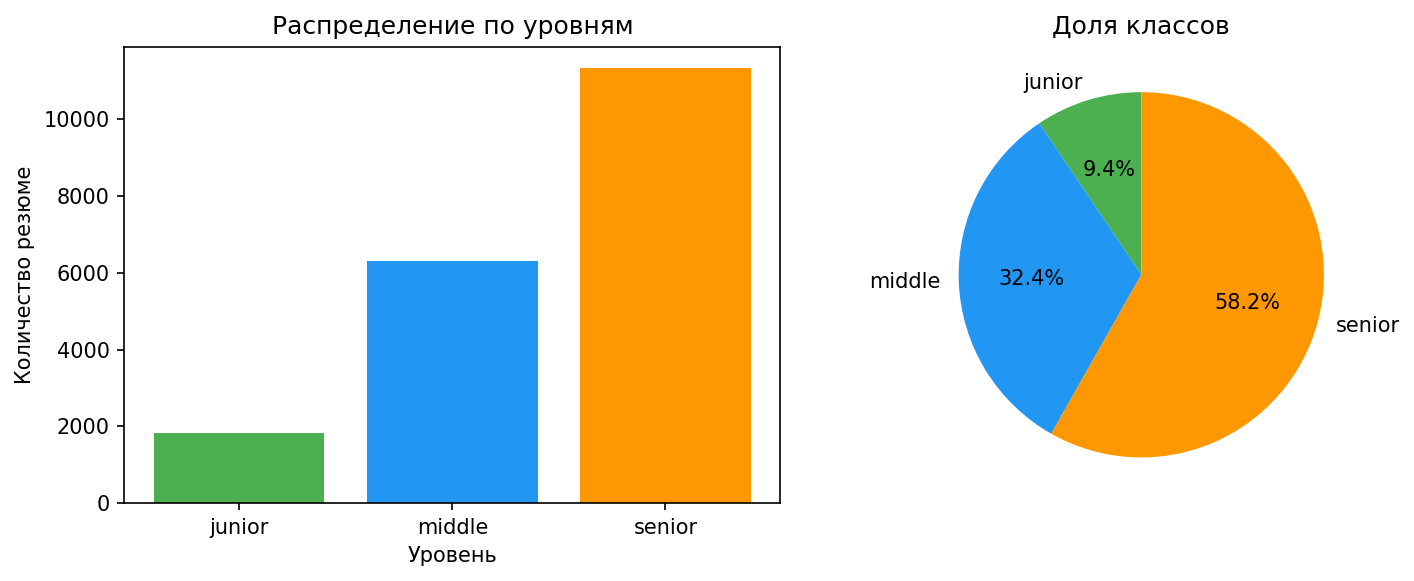
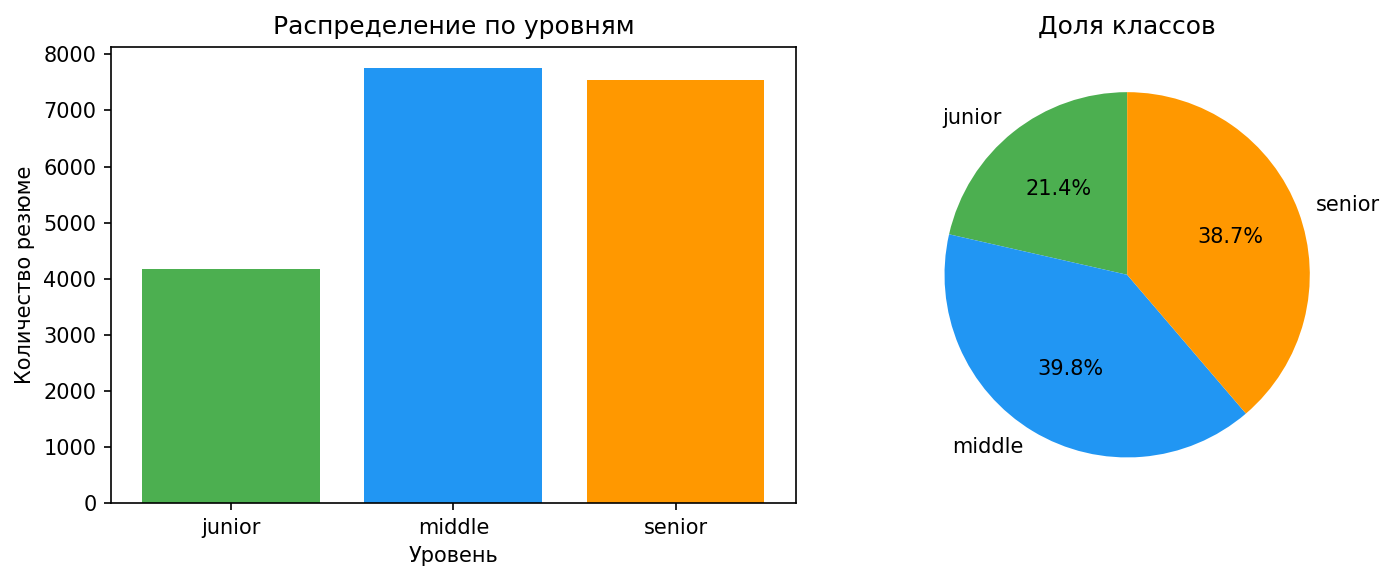
improved labeling

diff --git a/app/features/labeling.py b/app/features/labeling.py
@@ -5,8 +5,8 @@ import pandas as pd
 
 from ..data.parsers import find_column, parse_age, parse_experience_years, parse_salary
 
-JUNIOR_MAX_YEARS = 2
-SENIOR_MIN_YEARS = 6
+JUNIOR_MAX_YEARS = 7
+SENIOR_MIN_YEARS = 10
 
 
 def assign_level_from_title(job_title) -> str | None:
@@ -14,10 +14,19 @@ def assign_level_from_title(job_title) -> str | None:
     if pd.isna(job_title):
         return None
     title_lower = str(job_title).lower()
-    if any(x in title_lower for x in ["junior", "джуниор", "стажёр", "стажер", "intern"]):
+    
+    # Junior: явные маркеры
+    if any(x in title_lower for x in ["junior", "джуниор", "джун", "стажёр", "стажер", "intern", "trainee", "младший"]):
         return "junior"
-    if any(x in title_lower for x in ["senior", "старший", "lead", "руководитель", "начальник"]):
+    
+    # Senior: лидерство и старшинство
+    if any(x in title_lower for x in ["senior", "старший", "lead", "тимлид", "руководитель", "начальник", "главный", "principal", "architect", "архитектор"]):
         return "senior"
+    
+    # Middle: явные маркеры
+    if any(x in title_lower for x in ["middle", "миддл", "мидл"]):
+        return "middle"
+    
     return None
 
 

diff --git a/app/reporting/writer.py b/app/reporting/writer.py
@@ -33,7 +33,6 @@ def format_conclusions(
         lines.append(f"   - {short}: {val:.3f}")
 
     lines.append("\n3. Улучшения: class_weight, TF-IDF, 5-fold CV" + (", SMOTE" if use_smote else ""))
-    lines.append("\n4. Разметка эвристическая (должность + опыт), возможны ошибки.")
 
     return "\n".join(lines)
 

diff --git a/README.md b/README.md
@@ -3,6 +3,12 @@
 ## Структура
 
 - **app** — PoC классификации IT-разработчиков по уровню (junior/middle/senior)
+  - `data/` — загрузка, фильтрация и парсинг данных
+  - `features/` — создание признаков и разметка уровней
+  - `model/` — построение и обучение пайплайна
+  - `evaluation/` — метрики и визуализация
+  - `reporting/` — формирование отчётов
+  - `cli.py` — точка входа
 
 ## Запуск
 
